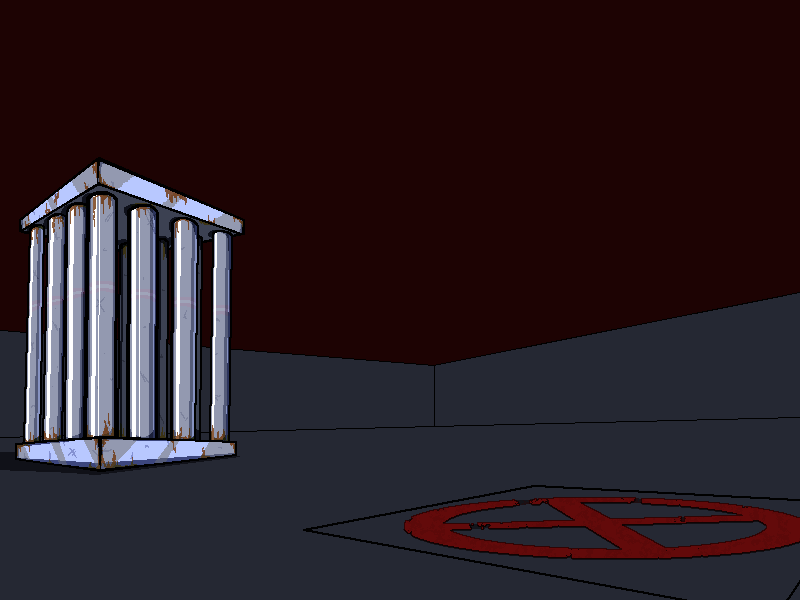
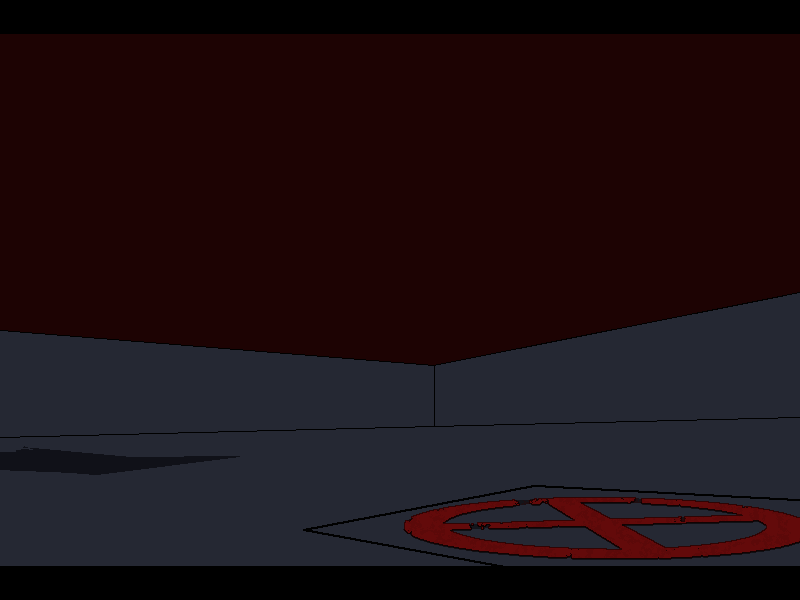
Particle effects

Changed region(s): [[0.0, 0.27, 0.3125, 0.78], [0.0, 0.93, 1.0, 1.0], [0.0, 0.0, 1.0, 0.06]]

diff --git a/js/scenes/menu.js b/js/scenes/menu.js
@@ -16,10 +16,14 @@ class MainMenu extends Phaser.Scene {
         this.load.image('start_button', 'assets/images/menu/start_button.png');
         this.load.image('option_button', 'assets/images/menu/option_button.png');
         this.load.image('about_button', 'assets/images/menu/about_button.png');
+        this.load.image('cage', 'assets/images/menu/cage.png');
         this.load.image('menu_tint', 'assets/images/menu/menu_tint.png');
         this.load.image('cross_lasers', 'assets/images/menu/menu_lasers.png');
         this.load.image('close', 'assets/images/menu/close.png');
         this.load.image('aspect_narrower', 'assets/images/menu/aspect_narrower.png');
+
+        //laser shard particles
+        this.load.atlas('shards', 'assets/images/particle/shards.png', 'assets/images/particle/shards_atlas.json');
 
         //start submenu images
         this.load.image('laser_top', 'assets/images/menu/laser_top.png');
@@ -65,22 +69,20 @@ class MainMenu extends Phaser.Scene {
         this.title_gloss = this.add.sprite(170, 55, 'title_gloss').setOrigin(0);
         this.title_gloss.setBlendMode(Phaser.BlendModes.SCREEN);
         
-        this.startbutton = this.add.sprite(500, 250, 'start_button').setInteractive().setOrigin(0);
-        this.optionbuttonundertint = this.add.sprite(500, 320, 'option_button').setOrigin(0);
-        this.aboutbutton = this.add.sprite(500, 390, 'about_button').setInteractive().setOrigin(0);
+        this.startbutton = this.add.sprite(490, 250, 'start_button').setInteractive().setOrigin(0);
+        this.optionbutton = this.add.sprite(490, 320, 'option_button').setInteractive().setOrigin(0);
+        this.aboutbutton = this.add.sprite(490, 390, 'about_button').setInteractive().setOrigin(0);
+        
+        this.cage = this.add.sprite(15,157,'cage').setOrigin(0);
         
         this.menu_tint = this.add.sprite(0,0,'menu_tint').setOrigin(0).setInteractive();
         this.menu_tint.setDisplaySize(this.sys.canvas.width, this.sys.canvas.height);
         this.title_spark = this.add.sprite(153,39, 'title_spark').setOrigin(0);
         this.title_spark.setBlendMode(Phaser.BlendModes.ADD);
-        this.cross_lasers = this.add.sprite(0,0,'cross_lasers').setOrigin(0).setBlendMode(Phaser.BlendModes.ADD);   
-        
-        //option button is a weird case since it has to be below the tint, but above the cross lasers.
-        //however, the cross lasers are above the tint. This is bypassed
-        //by having the physical button above, but once the menu is activated it is hidden and
-        //a different button is shown.
-        this.optionbutton = this.add.sprite(500, 320, 'option_button').setInteractive().setOrigin(0);
-        
+
+        this.cross_lasers = this.add.sprite(0,0,'cross_lasers').setOrigin(0).setBlendMode(Phaser.BlendModes.ADD);  
+        this.initLaserParticles();
+
         this.laser_top = this.add.sprite(0, 180, 'laser_top').setOrigin(0);
         this.laser_top.setBlendMode(Phaser.BlendModes.ADD);
         this.laser_mid = this.add.sprite(0, 230, 'laser_mid').setOrigin(0);
@@ -117,6 +119,82 @@ class MainMenu extends Phaser.Scene {
         this.menu_tint.setVisible(show);
         this.laser_bottom.setVisible(show);
         this.optionbutton.setVisible(!show);
+    }
+
+    initLaserParticles(){
+        let particles = this.add.particles('shards');
+        let cageparticles = this.add.particles('shards');
+        var triangle1 = new Phaser.Geom.Triangle(0,236, 608, 364, 0, 240);
+        var triangle2 = new Phaser.Geom.Triangle(93, 381, 800, 167, 800, 156);
+        var triangle3 = new Phaser.Geom.Triangle(461,0, 808, 315, 438,0);
+        var emitter = particles.createEmitter(
+            {
+                frame: ['shard_1', 'shard_2', 'shard_3'],
+                x:0, y:0,
+                speed: 20,
+                lifespan: 1100,
+                quantity: 80,
+                frequency: 100,
+                angle: {min: 175, max: 205},
+                scale: { start: 0.15, end: 0.0 },
+                blendMode: Phaser.BlendModes.ADD,
+                emitZone: {type: 'edge', source: triangle1, quantity: 80}
+            }
+        );
+        var emitter2 = cageparticles.createEmitter(
+            {
+                frame: ['shard_1', 'shard_2', 'shard_3'],
+                x:0, y:0,
+                speed: 25,
+                lifespan: 1200,
+                quantity: 100,
+                frequency: 100,
+                angle: {min: -8, max: -30},
+                scale: { start: 0.15, end: 0.0 },
+                blendMode: Phaser.BlendModes.ADD,
+                emitZone: {type: 'edge', source: triangle2, quantity: 100}
+            }
+        );
+        
+        var emitter3 = particles.createEmitter(
+            {
+                frame: ['shard_1', 'shard_2', 'shard_3'],
+                x:0, y:0,
+                speed: 30,
+                lifespan: 600,
+                quantity: 100,
+                frequency: 100,
+                angle: {min: -160, max: -120},
+                scale: { start: 0.2, end: 0.0 },
+                blendMode: Phaser.BlendModes.ADD,
+                emitZone: {type: 'edge', source: triangle3, quantity: 100}
+            }
+        );
+        var cagemask = new Phaser.Display.Masks.BitmapMask(this, this.cage);
+        cagemask.invertAlpha = true;
+        cageparticles.mask = cagemask;
+        
+        var optionmask = new Phaser.Display.Masks.BitmapMask(this, this.optionbutton);
+        optionmask.invertAlpha = true;
+        particles.mask = optionmask;
+        this.cross_lasers.mask = optionmask;
+
+        var line1 = new Phaser.Geom.Triangle(0,0, 800, 315);
+        this.startparticles = this.add.particles('shards');
+        var emitter3 = this.startparticles.createEmitter(
+            {
+                frame: ['shard_1', 'shard_2', 'shard_3'],
+                x:0, y:0,
+                speed: 30,
+                lifespan: 1600,
+                quantity: 100,
+                frequency: 100,
+               // angle: {min: -160, max: -120},
+                scale: { start: 1, end: 0.2 },
+                blendMode: Phaser.BlendModes.ADD,
+                emitZone: {type: 'edge', source: line1, quantity: 100}
+            }
+        );
     }
 }
 export default MainMenu;

diff --git a/js/scenes/classic.js b/js/scenes/classic.js
@@ -6,6 +6,7 @@ class ClassicMode extends Phaser.Scene {
 
     preload()
     {
+        this.load.atlas('shards', 'assets/images/particle/shards.png', 'assets/images/particle/shards_atlas.json');
     }
 
     create()
@@ -15,6 +16,36 @@ class ClassicMode extends Phaser.Scene {
             this.scene.start('MainMenu');
         }, this);
         this.add.text(0,0, 'Classic Mode Scene');
+
+        let m_particles = this.add.particles('shards');
+        var line = new Phaser.Geom.Line(-100,-100, 100, 100);
+        var m_emitter = m_particles.createEmitter(
+            {
+                frame: ['shard_2'],
+                x:400, y:400,
+                speed: 60,
+                lifespan: 1500,
+                quantity: 30,
+                frequency: 200,
+                scale: { start: 0.8, end: 0.0 },
+                blendMode: Phaser.BlendModes.ADD,
+                emitZone: {type: 'edge', source: line, quantity: 30},
+                rotation: {min:0, max:180},
+                emitCallback: onEmits
+            }
+        );
+
+        //changed to onEmits because I discovered Phaser has an onEmit somewhere already
+        function onEmits(particle, key) {
+            const values = particle.emitter[key].propertyValue;
+        
+            // Handle a random value.
+            if (typeof values.value === 'object') {
+              particle[`${key}Initial`] = randomBetween(values.value.min, values.value.max);
+            } else if (values.value) {
+              particle[`${key}Initial`] = values.value;
+            }
+          }
     }
 }
 export default ClassicMode;

diff --git a/js/main.js b/js/main.js
@@ -6,6 +6,7 @@ let config = {
     width: 800,
     height: 600,
     parent: gamediv,
+    //scene: new ClassicMode() //use this to test specific scenes directly
     scene: [new MainMenu(), new ClassicMode()]
 };
 
